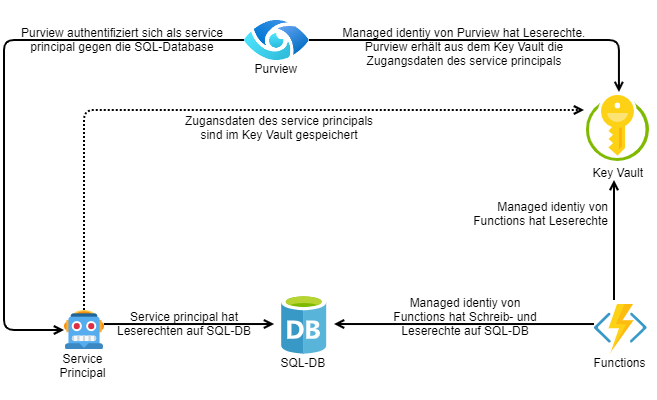
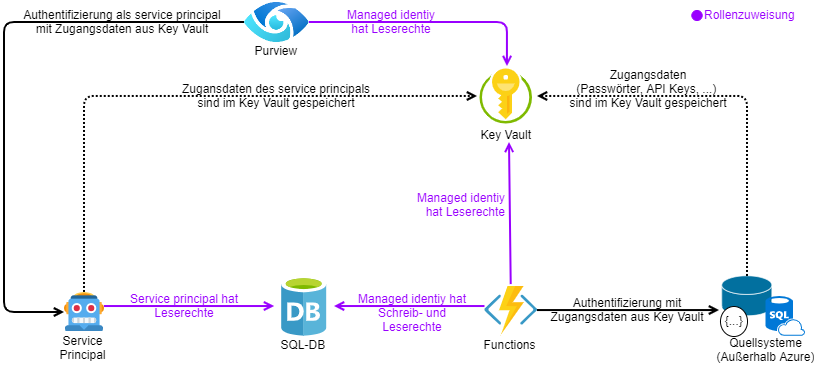
Update

Changed region(s): [[0.0, 0.0, 1.0, 0.9918], [0.5784, 0.9317, 0.6697, 0.9617]]

diff --git a/chapters/chapter04/chap04_1.tex b/chapters/chapter04/chap04_1.tex
@@ -40,15 +40,13 @@ Für \textit{Azure Purview} sind vergleichsweise wenig Entscheidungen notwendig.
 \subsubsection{Sichere Aufbewahrung von Schlüsseln} \label{subsec:infra:konfig:keyVault}
 Für die gespeicherten Passwörter im \textit{Azure Key Vault} kann zwischen Hardware- und Softwaremodus entschieden werden. Bei beiden erfolgt die Speicherung auf einem Hardware-Sicherheitsmodul, jedoch werden nur beim Hardwaremodus alle Operationen, wie Ver- und Entschlüsselung, ebenfalls in diesen Modul durchgeführt. Damit verspricht der Hardwaremodus eine höhere Sicherheit, setzt jedoch die Premium-Variante des Key Vaults voraus. In der Premium-Variante stehen außerdem stärkere Schlüssel zur Verfügung \cite{haunts_key_2019}. Aus diesen Gründen wird hier die Premium, gegenüber der Standard~=Variante bevorzugt, da sie mehr Möglichkeiten, mit denen die Sicherheit weiter erhöht werden kann, bietet. Des Weiteren wird die Verwendung von \ac{rbac} festgelegt. Alternativ würde ein eigenes Zugriffsrichtliniensystem des \textit{Key Vaults} verwendet werden \cite[vgl.][]{herath_azure_2022}.
 
-\subsubsection{Berechtigungen und Rollen} \label{subsec:infra:konfig:aad}
-\textbf{Benutzer:}
-
-\textbf{Ressourcen:} \textit{Azure Purview} und \textit{Functions} wird eine Managed Identitiy zugewiesen. Beide erhalten eine Rolle, die es erlaubt, Passwörter aus dem \textit{Azure Key Vault} zu lesen. Die Managed Identity von \textit{Azure Functions} bekommt für den ETL-Prozess Lese- und Schreibrechte auf dem \ac{dwh}. Für \textit{Purview} wird ein service principal angelegt, der Leserechten auf dem \ac{dwh} hat. Die Zugangsdaten des service principals werden im \textit{Key Vault} gespeichert \cite[vgl.][]{riscutia_data_2021}. Die Authentifizierung gegenüber dem \ac{dwh} wird in Abbildung~\ref{fig:chap04_ressourceAuth} verdeutlicht. 
+\subsubsection{Berechtigungen und Rollen von Ressourcen} \label{subsec:infra:konfig:aad}
+\textit{Azure Purview} und \textit{Functions} wird eine Managed Identitiy zugewiesen. Beide erhalten eine Rolle, die es erlaubt, Passwörter aus dem \textit{Azure Key Vault} zu lesen. Die Managed Identity von \textit{Azure Functions} bekommt für den ETL-Prozess Lese- und Schreibrechte auf dem \ac{dwh}. Für \textit{Purview} wird ein service principal angelegt, der Leserechten auf dem \ac{dwh} hat. Die Zugangsdaten des service principals werden im \textit{Key Vault} gespeichert \cite[vgl.][]{riscutia_data_2021}. Das Authentifizierungskonzept der Ressourcen wird in Abbildung~\ref{fig:chap04_ressourceAuth} verdeutlicht. 
 
  \begin{figure}[htbp]
  \centering
  \includegraphics[width=\textwidth]{gfx/ressource_auth.png}
- \caption[Authentifizierung gegen Azure SQL-Database]{Authentifizierung gegen \textit{Azure SQL-Database} \cite[vgl.][]{riscutia_data_2021}}
+ \caption[Authentifizierungskonzept für Ressourcen]{Authentifizierungskonzept für Ressourcen \cite[vgl.][]{riscutia_data_2021}}
 \label{fig:chap04_ressourceAuth}
 \end{figure}
 

diff --git a/chapters/chapter04/chap04_4.tex b/chapters/chapter04/chap04_4.tex
@@ -1,5 +1,7 @@
 \section{Ausblick auf notwendige Ergänzungen} \label{sec:praktischeUmsetzung:ausblick}
 
+\subsection{Berechtigungskonzept mit Standortberücksichtigung}
+
 \subsection{Reports mit explizitere Zustimmung des Betriebsrates}
 % Eine bisher noch nicht betrachtete Anforderung ist es, dass es grundsätzlich möglich sein soll
 
